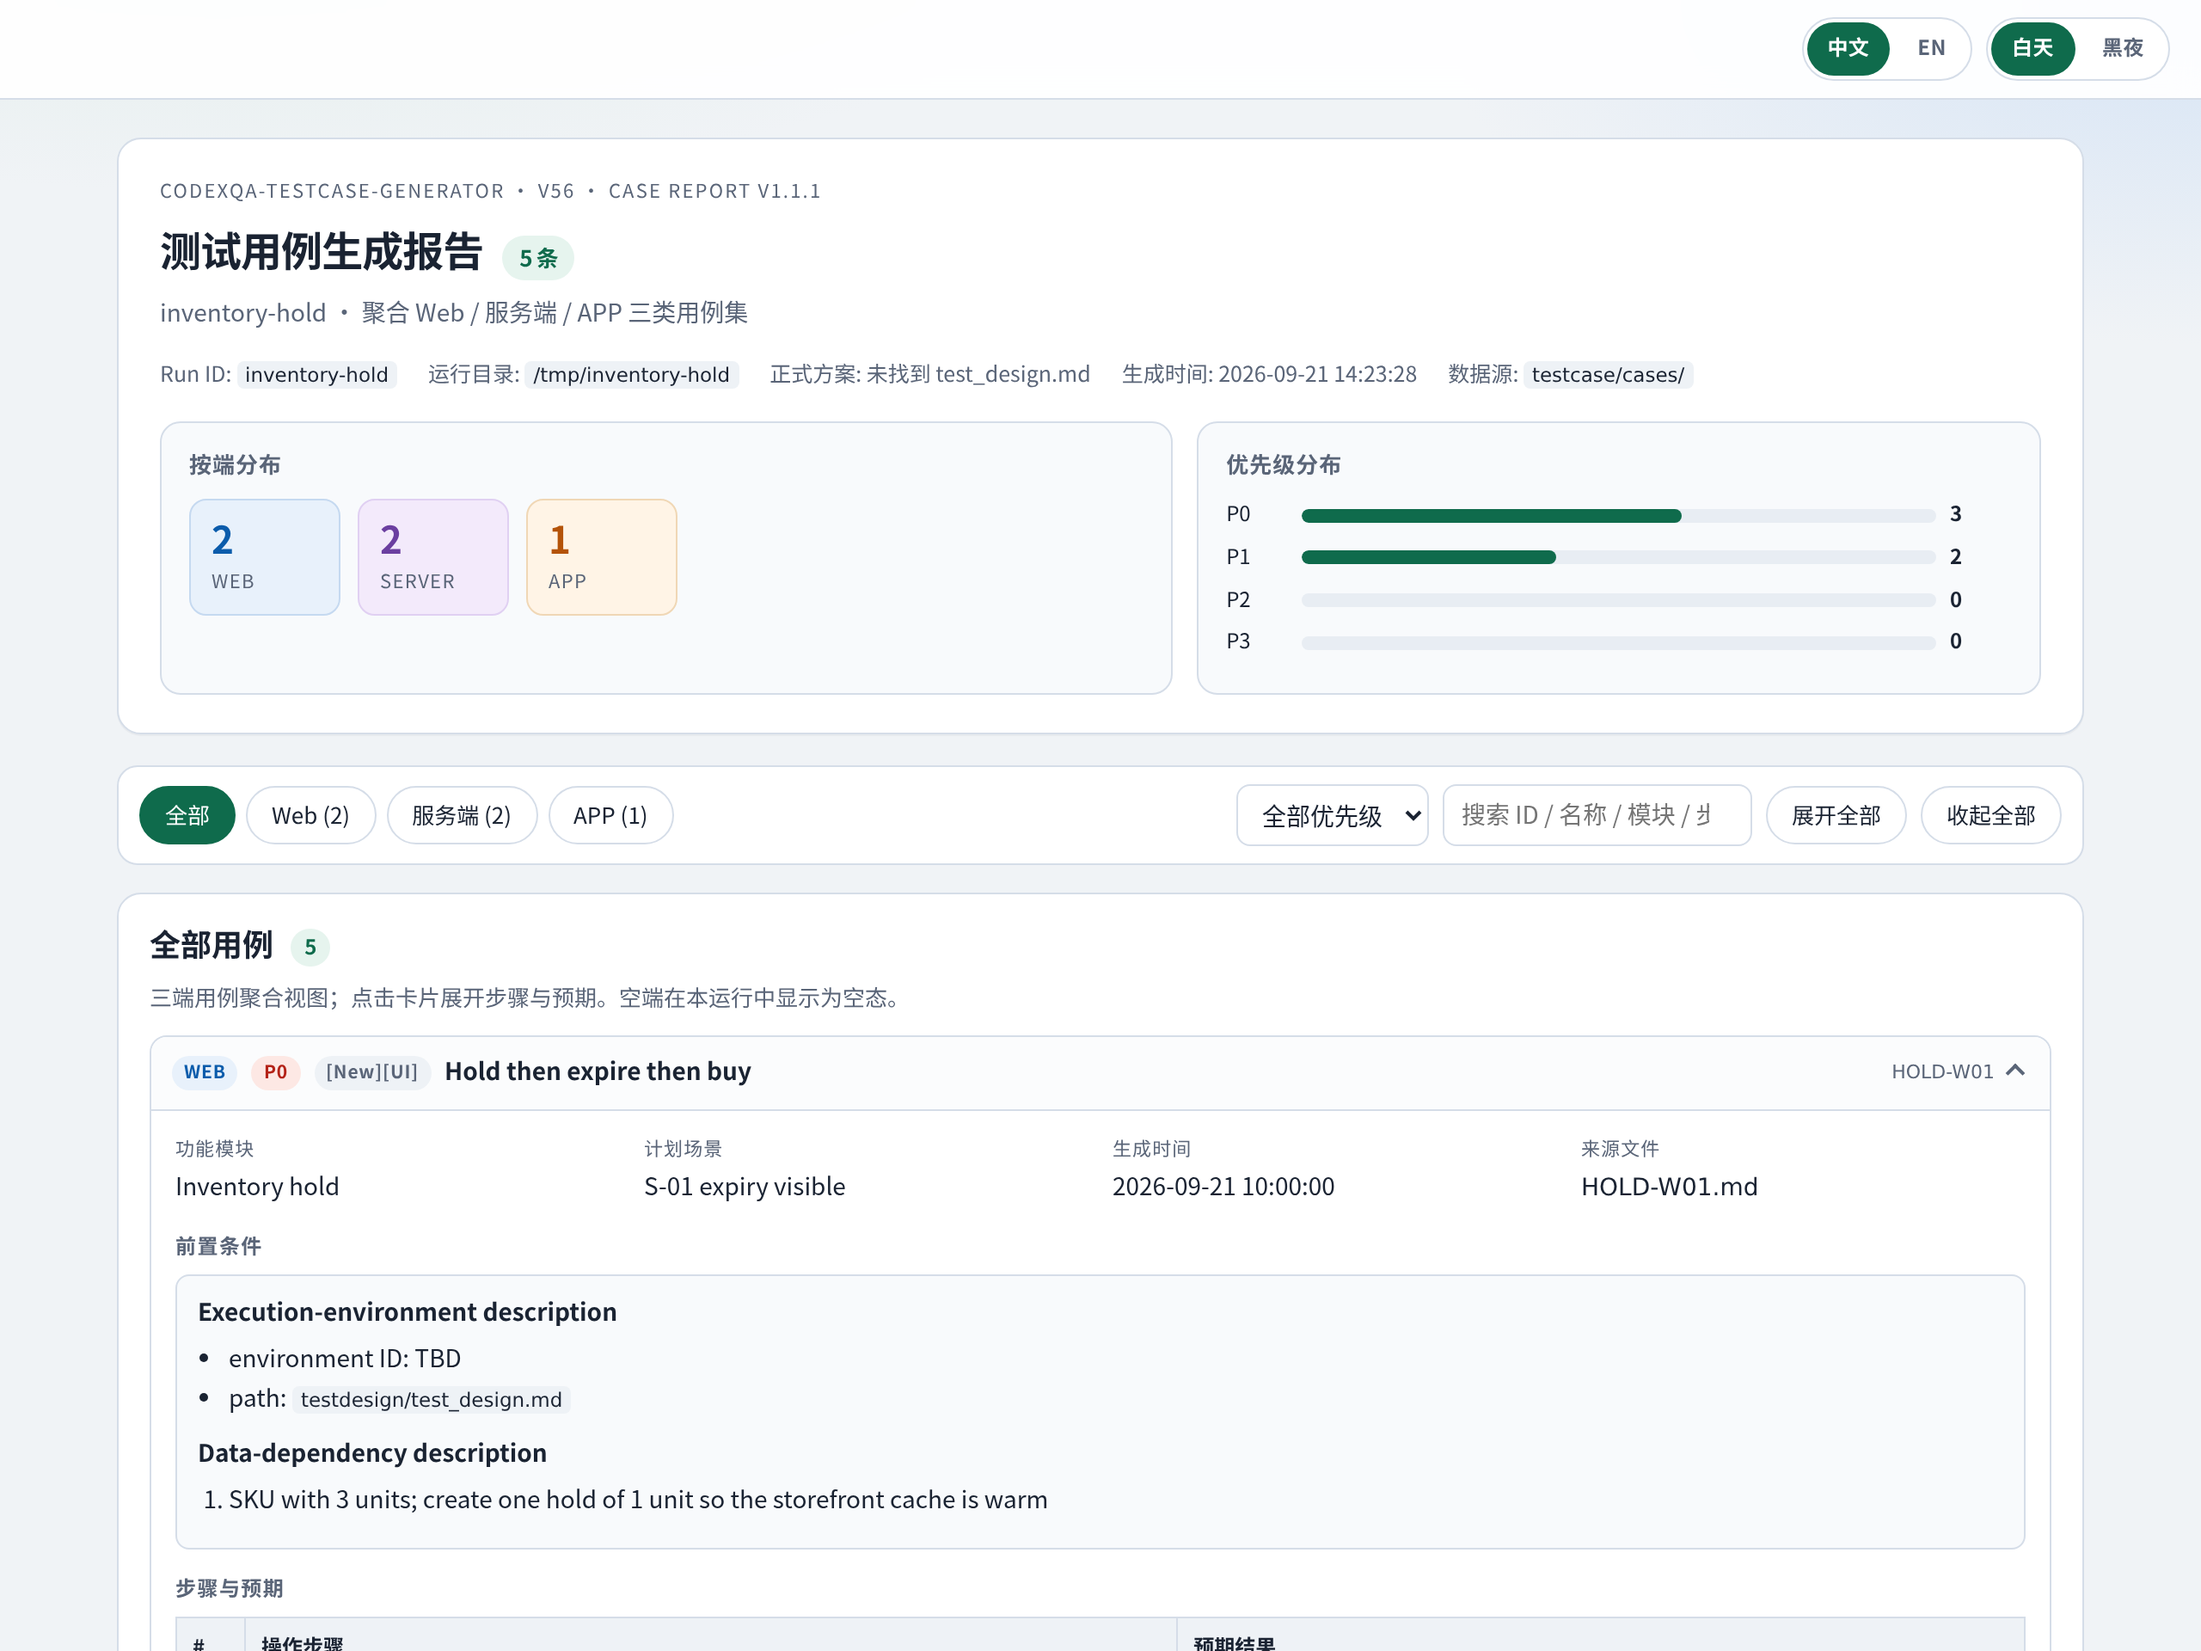
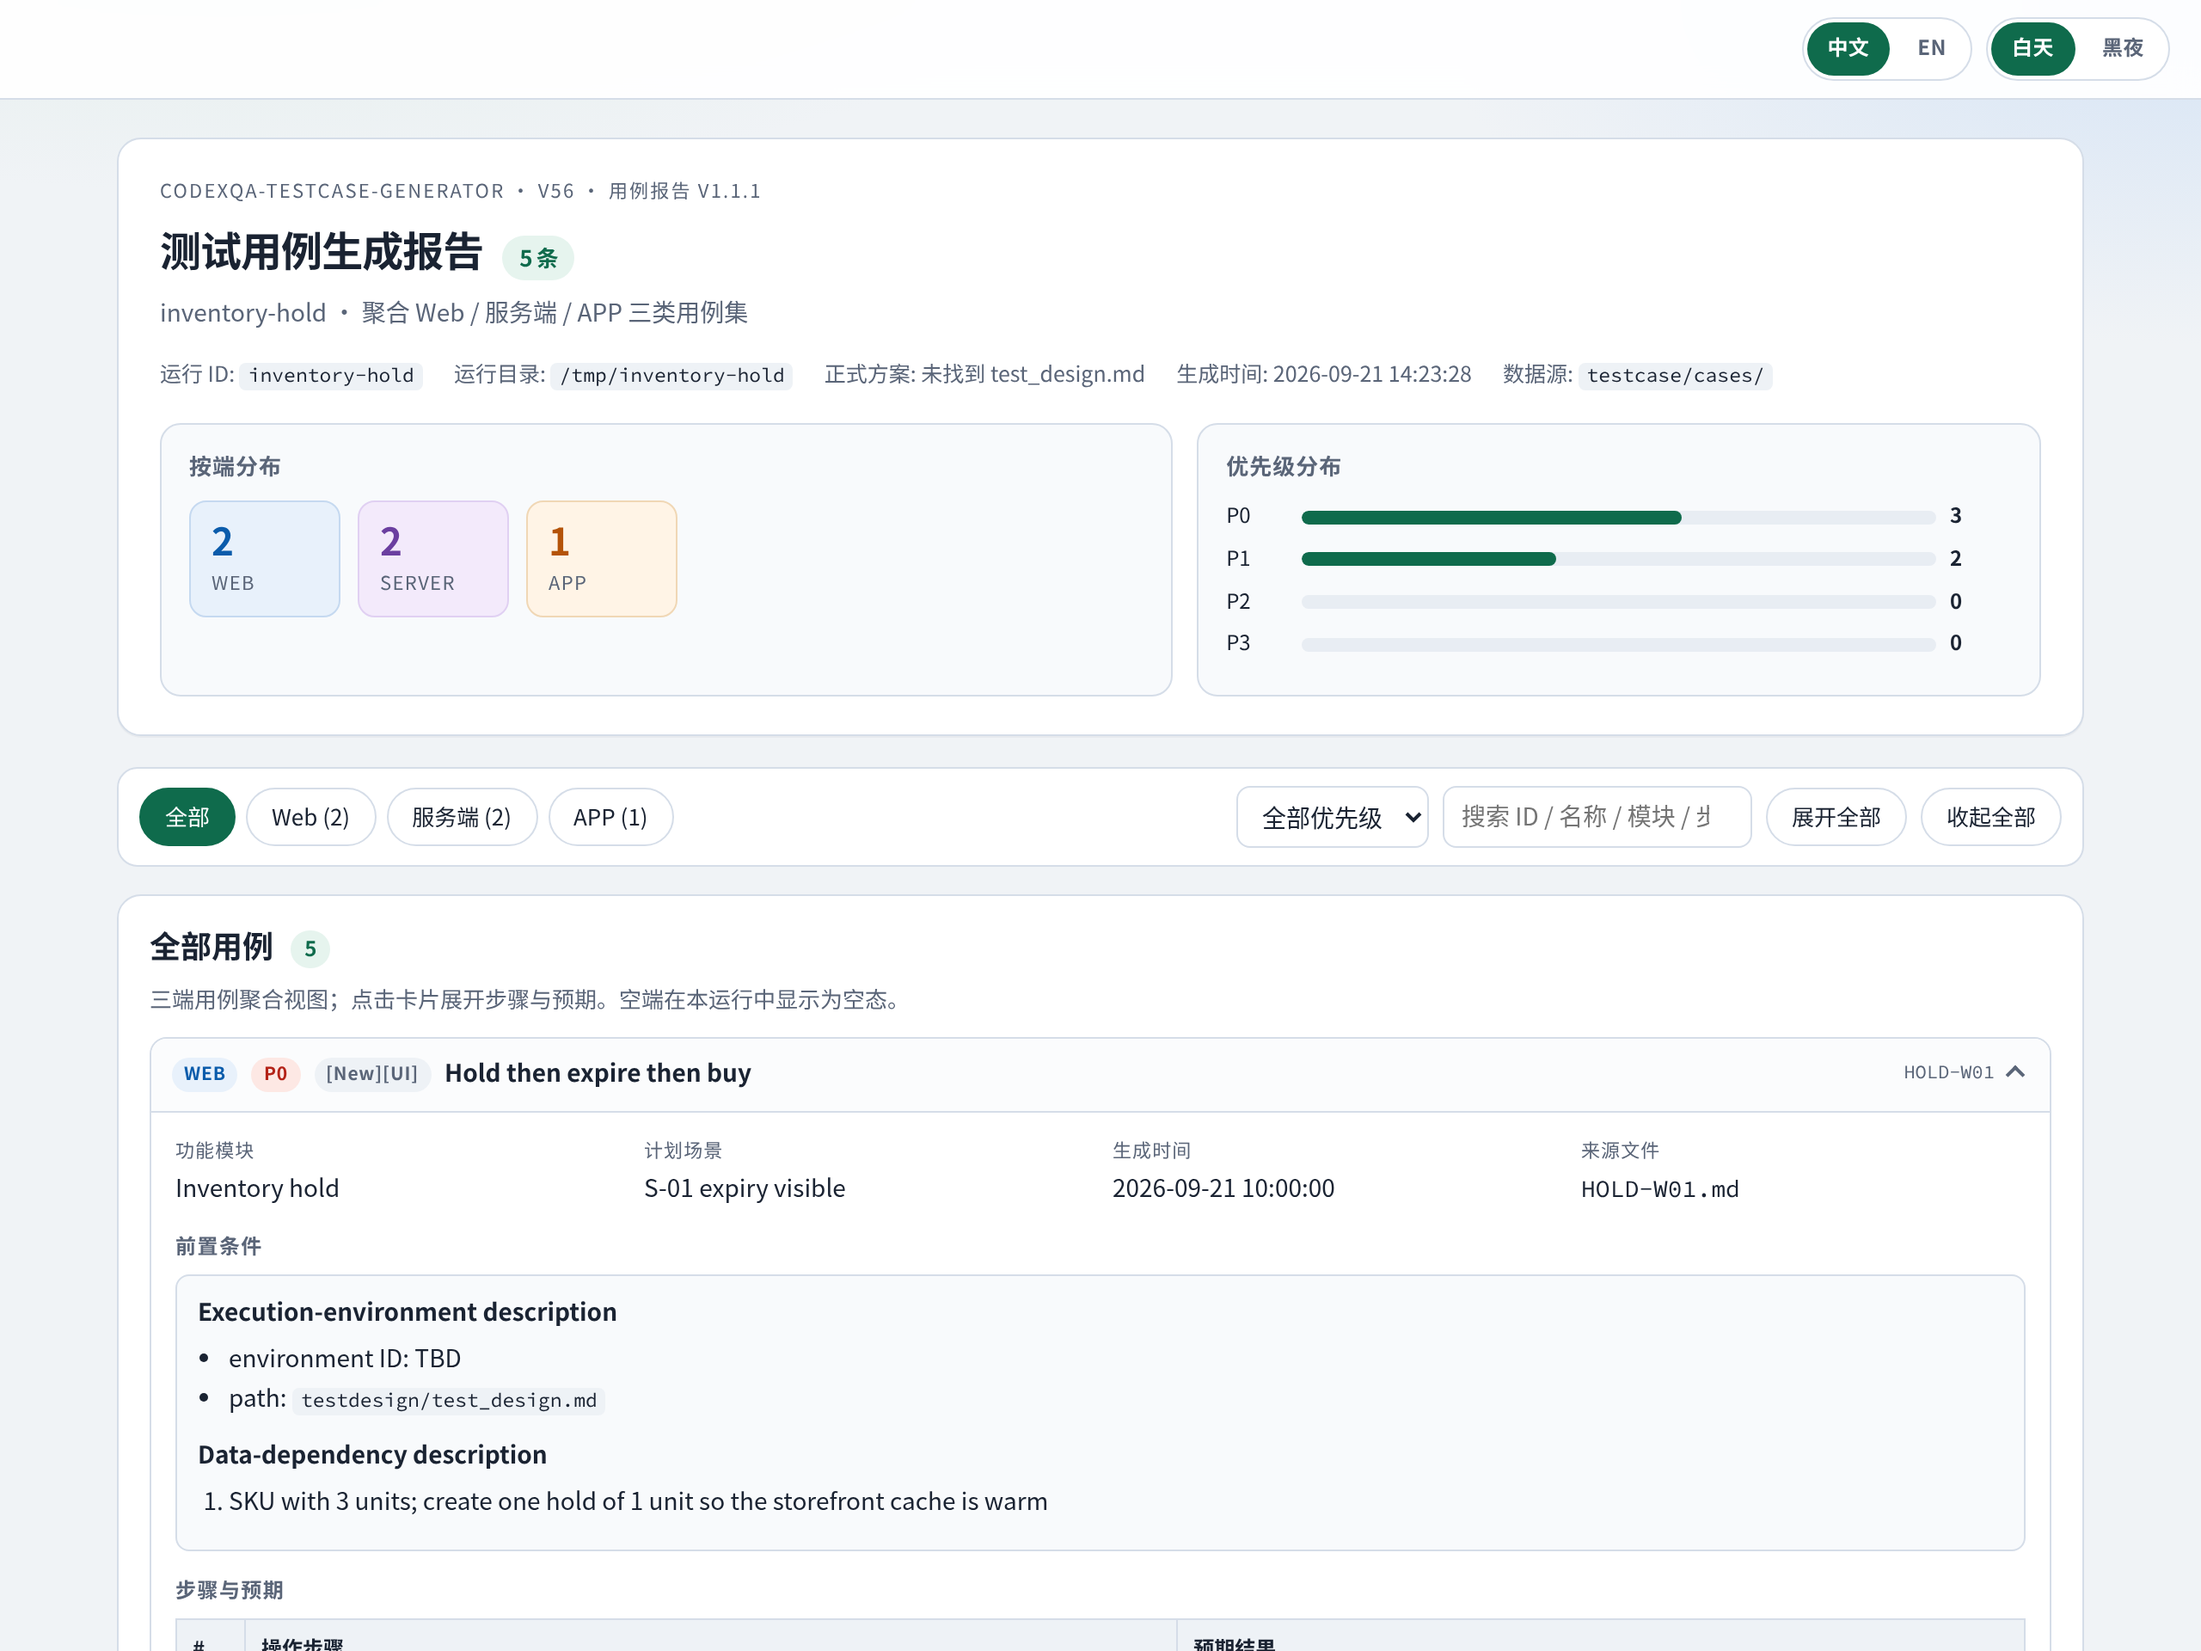
Show an English test-case homepage in the English README and switch the remaining report labels.

diff --git a/docs/assets/previews/testcase-report.html b/docs/assets/previews/testcase-report.html
@@ -170,13 +170,13 @@ html[data-lang="zh"] .unit-en { display:none; }
 </div>
 <div class="wrap">
   <header class="hero">
-    <p class="kicker">codexqa-testcase-generator · V56 · case report v1.1.1</p>
+    <p class="kicker">codexqa-testcase-generator · V56 · <span data-zh="用例报告" data-en="case report">用例报告</span> v1.1.1</p>
     <h1><span data-zh="测试用例生成报告" data-en="Test Case Generation Report">测试用例生成报告</span>
       <span class="total-pill">5 <span class="unit-zh">条</span><span class="unit-en"> cases</span></span>
     </h1>
     <p class="sub">inventory-hold · <span data-zh="聚合 Web / 服务端 / APP 三类用例集" data-en="Aggregates Web / Server / APP case sets">聚合 Web / 服务端 / APP 三类用例集</span></p>
     <div class="meta-row">
-      <span>Run ID: <code>inventory-hold</code></span>
+      <span><span data-zh="运行 ID" data-en="Run ID">运行 ID</span>: <code>inventory-hold</code></span>
       <span><span data-zh="运行目录" data-en="Run dir">运行目录</span>: <code>/tmp/inventory-hold</code></span>
       <span><span data-zh="正式方案" data-en="Formal plan">正式方案</span>: <span data-zh="未找到 test_design.md" data-en="test_design.md not found">未找到 test_design.md</span></span>
       <span><span data-zh="生成时间" data-en="Generated at">生成时间</span>: 2026-09-21 14:23:28</span>

diff --git a/skills/codexqa-testcase-generator/scripts/generate_case_report.py b/skills/codexqa-testcase-generator/scripts/generate_case_report.py
@@ -806,13 +806,13 @@ html[data-lang="zh"] .unit-en {{ display:none; }}
 </div>
 <div class="wrap">
   <header class="hero">
-    <p class="kicker">codexqa-testcase-generator · V56 · case report v{SCRIPT_VERSION}</p>
+    <p class="kicker">codexqa-testcase-generator · V56 · {_bi('用例报告', 'case report')} v{SCRIPT_VERSION}</p>
     <h1>{_bi('测试用例生成报告', 'Test Case Generation Report')}
       <span class="total-pill">{stats['total']} <span class="unit-zh">条</span><span class="unit-en"> cases</span></span>
     </h1>
     <p class="sub">{_esc(project_name)} · {_bi('聚合 Web / 服务端 / APP 三类用例集', 'Aggregates Web / Server / APP case sets')}</p>
     <div class="meta-row">
-      <span>Run ID: <code>{_esc(runid or run_dir.name)}</code></span>
+      <span>{_bi('运行 ID', 'Run ID')}: <code>{_esc(runid or run_dir.name)}</code></span>
       <span>{_bi('运行目录', 'Run dir')}: <code>{_esc(str(run_dir))}</code></span>
       <span>{_bi('正式方案', 'Formal plan')}: {plan_note}</span>
       <span>{_bi('生成时间', 'Generated at')}: {_esc(generated)}</span>

diff --git a/docs/assets/previews/README.md b/docs/assets/previews/README.md
@@ -11,7 +11,7 @@ Sample HTML used as screenshots in the repository README. Most are **illustratio
 | `code-analyzer.html` / `.png` | `codexqa-code-analyzer` | Wrapper around published `checkout-change-impact.svg` |
 | `rootcause.html` / `.png` | `codexqa-rootcause-analyzer` | Bilingual RCA sample (English `report.md` headings + Chinese twins); native delivery is Markdown + `report.html` |
 | `ra-register.html` / `.png` | `codexqa-requirement-analyzer` | Sample gap/conflict register |
-| `testcase-report.html` / `.png` | `codexqa-testcase-generator` | `generate_case_report.py --run-dir` (Web / Server / APP aggregate) |
+| `testcase-report.html` / `.png` | `codexqa-testcase-generator` | `generate_case_report.py --run-dir` (Web / Server / APP aggregate). `.png` is the Chinese homepage. `testcase-report-en.png` is the same page with EN selected; the root English README uses that shot |
 | `testdata-writeback.html` / `.png` | `codexqa-testdata-generator` | `{placeholder}` replaced with a backend-returned id |
 | `testcase-sample.html` / `.png` | `codexqa-testcase-generator` | Extra: one V56 server-end case table |
 | `jev-report.html` / `.png` | `codexqa-jev-browser` | Real run `20260923-150451` (Baidu search → Ctrip domestic round trip). PNG is the full page with the case open, Chinese, light theme. Step shots and `recording.mp4` sit under `jev-report/` |

diff --git a/README.md b/README.md
@@ -95,7 +95,7 @@ GitHub is the skill source; product site: [openqa.cn](https://openqa.cn/?utm_sou
 <p><strong><a href="skills/codexqa-testcase-generator/README.md">codexqa-testcase-generator</a></strong></p>
 <p><strong>Verifies</strong> — what a complete test pass should cover for Web / server / APP, without inventing business facts when the PRD is silent.</p>
 <p><strong>Does</strong> — local Markdown plan + cases (unknowns stay TBD) plus an aggregated HTML you can open. No test-management platform.</p>
-<p align="center"><a href="https://htmlpreview.github.io/?https://github.com/openqa-cn/codexqa/blob/main/docs/assets/previews/testcase-report.html"><img src="docs/assets/previews/testcase-report.png" alt="codexqa-testcase-generator aggregated HTML case report"></a></p>
+<p align="center"><a href="https://htmlpreview.github.io/?https://github.com/openqa-cn/codexqa/blob/main/docs/assets/previews/testcase-report.html"><img src="docs/assets/previews/testcase-report-en.png" alt="codexqa-testcase-generator aggregated HTML case report"></a></p>
 </td>
 <td width="50%" valign="top">
 <p><strong><a href="skills/codexqa-testdata-generator/README.md">codexqa-testdata-generator</a></strong></p>
